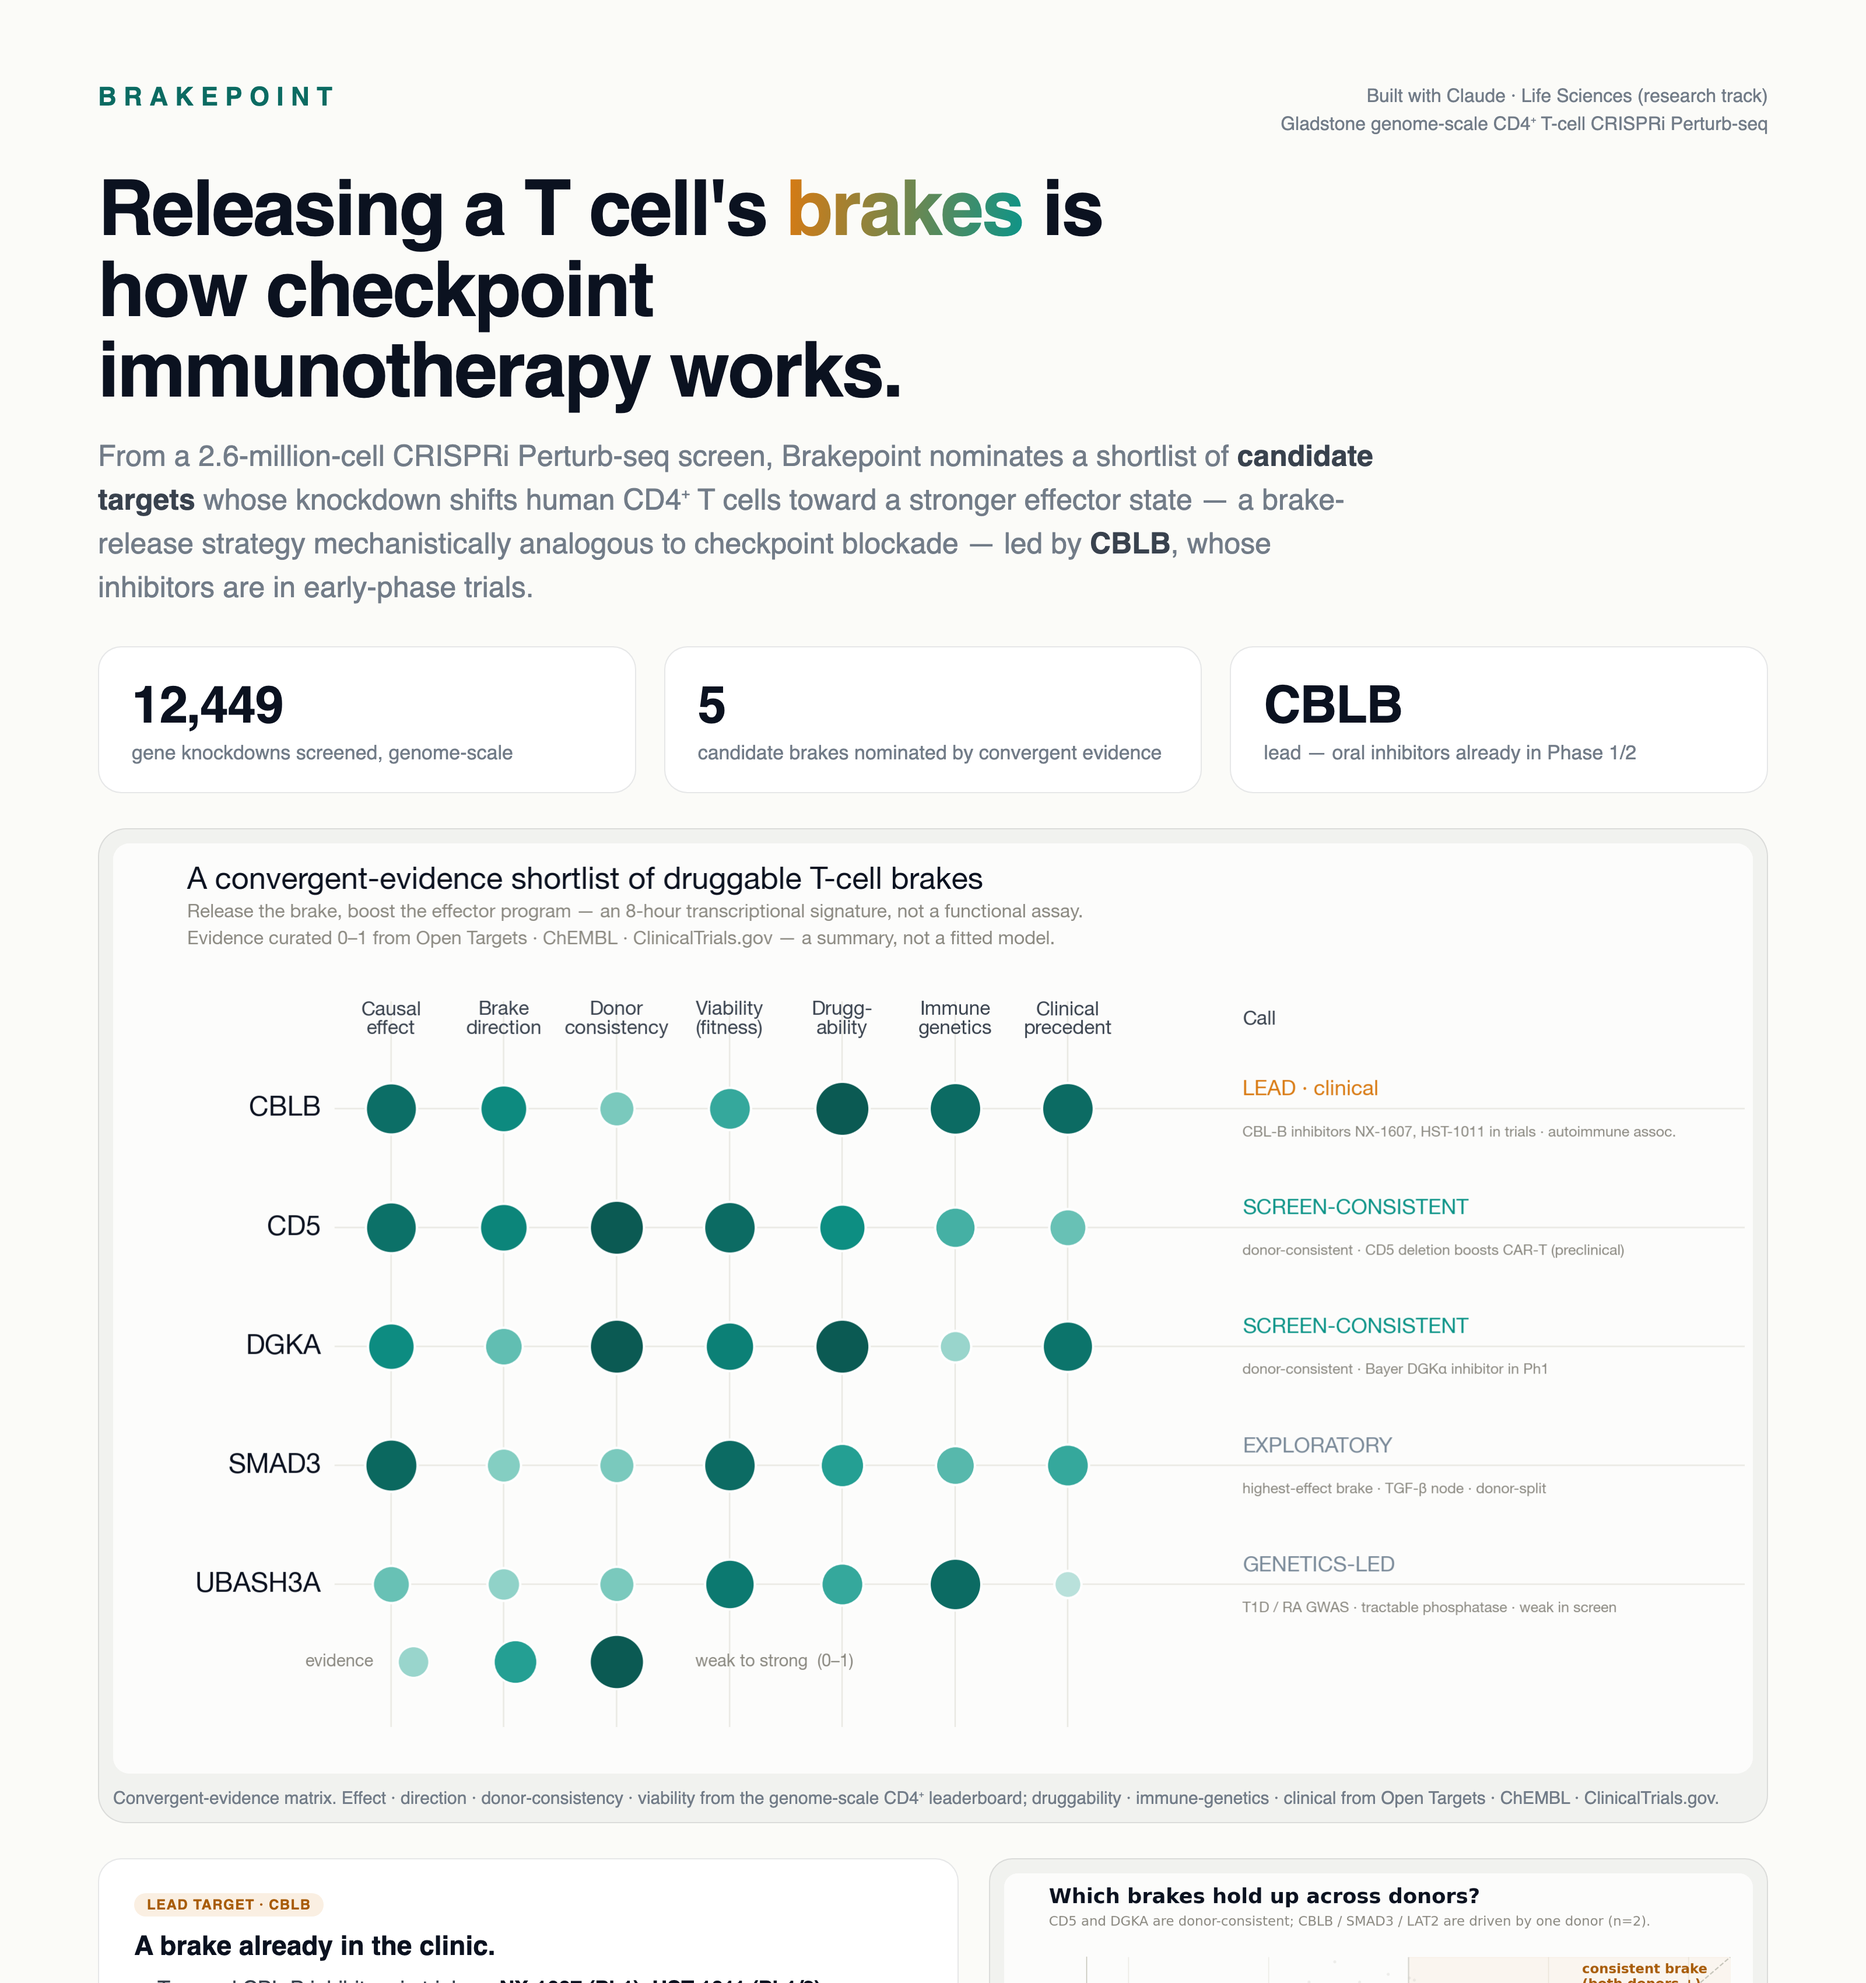
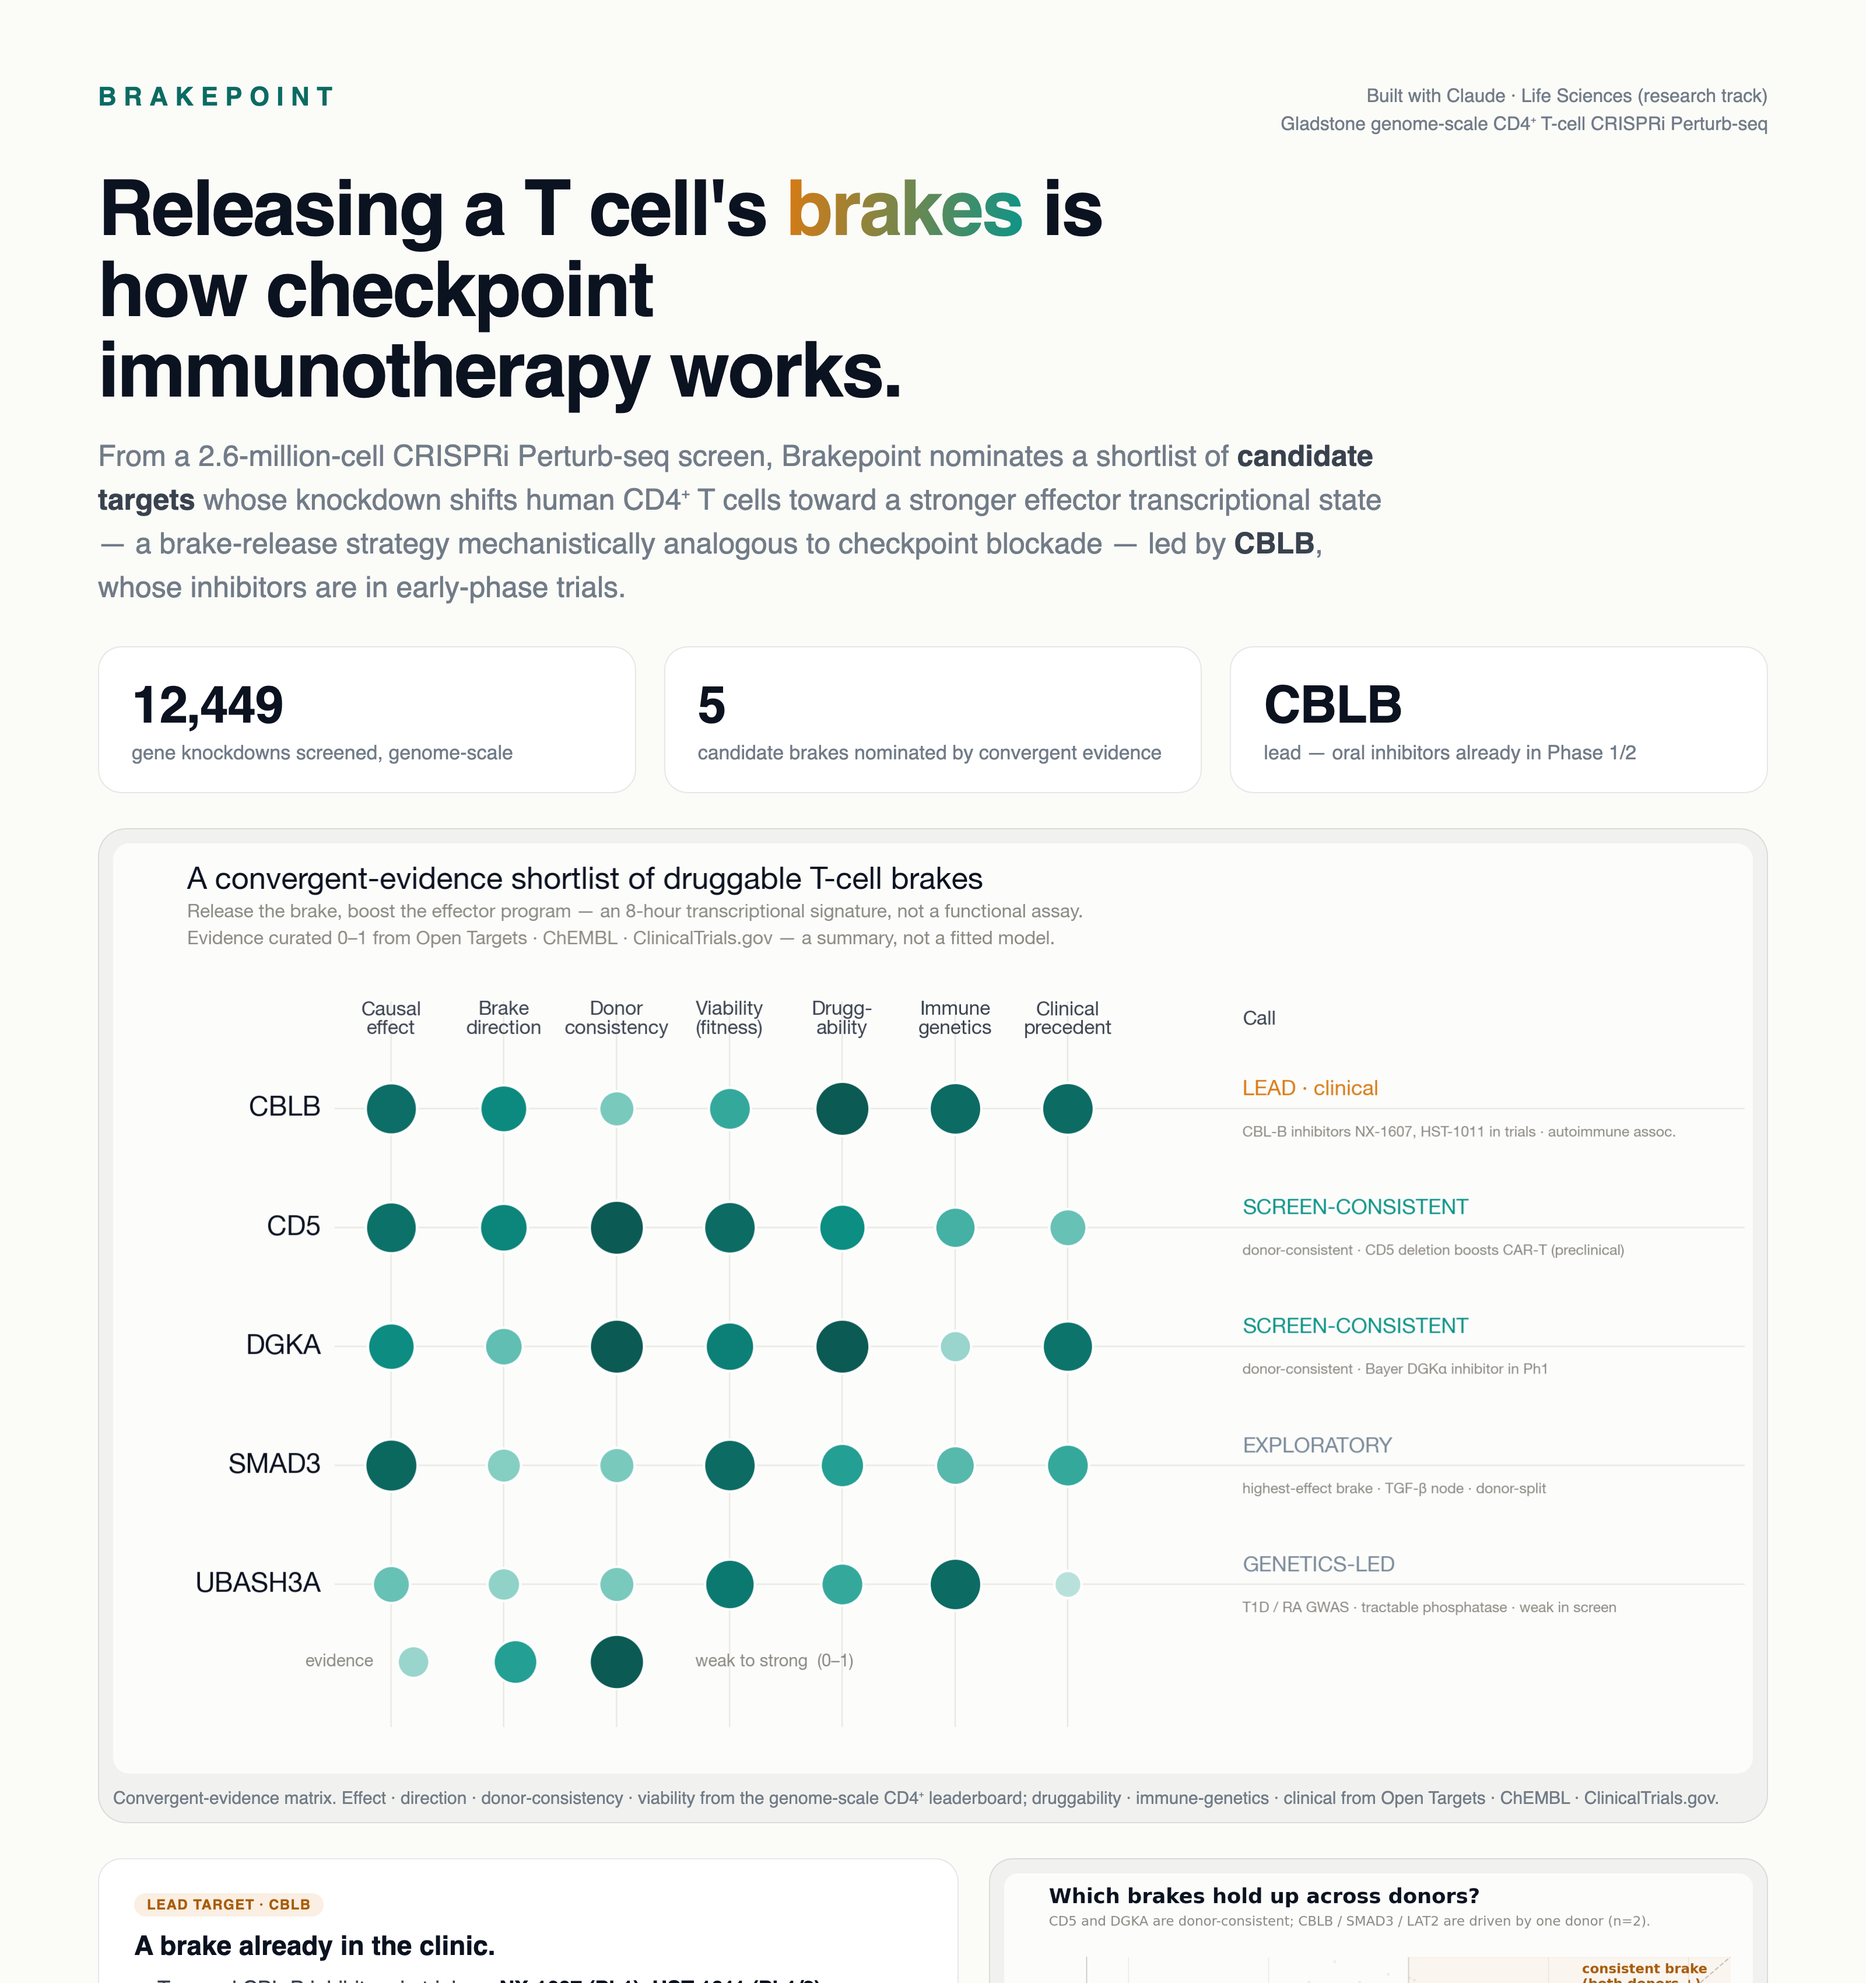
landing honesty pass 5: 'effector transcriptional state' explicit in hero leads; ground CBLB directional claim in preclinical Cbl-b loss + trial rationale (not inferred from autoimmune association); re-render one-pager

Changed region(s): [[0.0625, 0.2494, 0.75, 0.3118]]

diff --git a/deliverables/index.html b/deliverables/index.html
@@ -4,7 +4,7 @@
 <meta charset="utf-8"/>
 <meta name="viewport" content="width=device-width, initial-scale=1"/>
 <title>Brakepoint — candidate brakes on human T-cell function</title>
-<meta name="description" content="From a 2.6-million-cell CRISPRi Perturb-seq screen, Brakepoint nominates a shortlist of candidate targets whose knockdown shifts human CD4+ T cells toward a stronger effector state — a brake-release strategy mechanistically analogous to checkpoint blockade — led by CBLB, whose inhibitors are in early-phase trials. Built with Claude Science."/>
+<meta name="description" content="From a 2.6-million-cell CRISPRi Perturb-seq screen, Brakepoint nominates a shortlist of candidate targets whose knockdown shifts human CD4+ T cells toward a stronger effector transcriptional state — a brake-release strategy mechanistically analogous to checkpoint blockade — led by CBLB, whose inhibitors are in early-phase trials. Built with Claude Science."/>
 <link rel="preconnect" href="https://fonts.googleapis.com"/><link rel="preconnect" href="https://fonts.gstatic.com" crossorigin/>
 <link href="https://fonts.googleapis.com/css2?family=Plus+Jakarta+Sans:wght@400;500;600;700;800&family=Space+Grotesk:wght@500;600;700&display=swap" rel="stylesheet"/>
 <style>
@@ -85,7 +85,7 @@
 <section class="hero"><div class="wrap">
   <span class="eyebrow on-dark">Built with Claude · Life Sciences · Research track</span>
   <h1>Releasing a T cell's <span class="g">brakes</span> is how checkpoint immunotherapy works.</h1>
-  <p class="lead">From a 2.6-million-cell CRISPRi Perturb-seq screen, Brakepoint nominates a shortlist of <b style="color:#f4b062">candidate targets</b> whose knockdown shifts human CD4⁺ T cells toward a stronger effector state — a brake-release strategy mechanistically analogous to checkpoint blockade — led by <b style="color:#fff">CBLB</b>, whose inhibitors are in early-phase trials.</p>
+  <p class="lead">From a 2.6-million-cell CRISPRi Perturb-seq screen, Brakepoint nominates a shortlist of <b style="color:#f4b062">candidate targets</b> whose knockdown shifts human CD4⁺ T cells toward a stronger effector transcriptional state — a brake-release strategy mechanistically analogous to checkpoint blockade — led by <b style="color:#fff">CBLB</b>, whose inhibitors are in early-phase trials.</p>
   <div class="hero-actions">
     <a class="btn on-dark" href="#targets">See the targets <span class="ico"><svg viewBox="0 0 24 24" fill="none" stroke="currentColor" stroke-width="1.8"><path d="M5 12h14M13 6l6 6-6 6" stroke-linecap="round" stroke-linejoin="round"/></svg></span></a>
     <a class="btn" href="#demo" style="background:rgba(255,255,255,.07);color:#fff;border:1px solid rgba(255,255,255,.14);padding-right:22px">Watch the 2-min demo</a>
@@ -101,7 +101,7 @@
 <section class="pad" id="targets"><div class="wrap">
   <span class="eyebrow kicker reveal">The finding · a target shortlist</span>
   <h2 class="reveal" style="max-width:22ch">Five candidate brakes, ranked by convergent evidence.</h2>
-  <p class="lead reveal" style="margin-top:18px">A T-cell "brake" is a gene whose knockdown shifts the cell toward a stronger effector state; checkpoint-blockade therapy works by drugging such brakes to boost immunity. Our direction axis is an 8-hour transcriptional signature, so functional validation (cytokines, proliferation, killing) is the required next step. We score each candidate across seven evidence axes: causal effect, brake direction, donor consistency, viability, druggability, immune genetics, and clinical precedent.</p>
+  <p class="lead reveal" style="margin-top:18px">A T-cell "brake" is a gene whose knockdown shifts the cell toward a stronger effector transcriptional state; checkpoint-blockade therapy works by drugging such brakes to boost immunity. Our direction axis is an 8-hour transcriptional signature, so functional validation (cytokines, proliferation, killing) is the required next step. We score each candidate across seven evidence axes: causal effect, brake direction, donor consistency, viability, druggability, immune genetics, and clinical precedent.</p>
   <div class="frame reveal" style="margin-top:38px"><div class="core"><img src="figures/target_matrix.svg" alt="Convergent-evidence matrix scoring CBLB, CD5, DGKA, SMAD3, UBASH3A across seven evidence dimensions"/></div></div>
   <p class="cap reveal">Effect, direction, donor consistency and viability are computed from the genome-scale CD4⁺ leaderboard; druggability, immune-genetics and clinical precedent are curated from Open Targets, ChEMBL and ClinicalTrials.gov. Reproduce with <span class="mono">make figure</span>.</p>
 </div></section>
@@ -115,7 +115,7 @@
     <div class="lead-card" style="margin-top:22px"><div class="in">
       <span class="tag lead">LEAD TARGET · CBLB</span>
       <div class="evrow"><span class="d"></span><div><b style="color:var(--ink)">Druggable, clinically:</b> two oral CBL-B inhibitors in trials — NX-1607 (Ph1) and HST-1011 (Ph1/2).</div></div>
-      <div class="evrow"><span class="d"></span><div><b style="color:var(--ink)">Human genetics:</b> an autoimmune genetic association consistent with a T-cell brake role — so inhibiting CBLB may boost anti-tumor immunity.</div></div>
+      <div class="evrow"><span class="d"></span><div><b style="color:var(--ink)">Human genetics &amp; biology:</b> CBLB carries an autoimmune-risk association, and Cbl-b loss enhances T-cell activation in preclinical models — the rationale behind the clinical CBL-B inhibitor programs (NX-1607, HST-1011).</div></div>
       <div class="evrow"><span class="d"></span><div><b style="color:var(--ink)">Causal + control:</b> a top-decile effect (E-distance 6.4) in the positive/brake direction, and an internal positive control for the method.</div></div>
       <div class="evrow"><span class="d" style="background:var(--amber)"></span><div><b style="color:var(--ink)">Honest caveat:</b> donor-split at n=2 (one of two donors drives the effect) — see the donor plot below.</div></div>
     </div></div>

diff --git a/deliverables/_video/onepager.html b/deliverables/_video/onepager.html
@@ -40,7 +40,7 @@
     <div class="built">Built with Claude · Life Sciences (research track)<br/>Gladstone genome-scale CD4⁺ T-cell CRISPRi Perturb-seq</div>
   </div>
   <h1>Releasing a T cell's <span class="g">brakes</span> is how checkpoint immunotherapy works.</h1>
-  <p class="sub">From a 2.6-million-cell CRISPRi Perturb-seq screen, Brakepoint nominates a shortlist of <b>candidate targets</b> whose knockdown shifts human CD4⁺ T cells toward a stronger effector state — a brake-release strategy mechanistically analogous to checkpoint blockade — led by <b>CBLB</b>, whose inhibitors are in early-phase trials.</p>
+  <p class="sub">From a 2.6-million-cell CRISPRi Perturb-seq screen, Brakepoint nominates a shortlist of <b>candidate targets</b> whose knockdown shifts human CD4⁺ T cells toward a stronger effector transcriptional state — a brake-release strategy mechanistically analogous to checkpoint blockade — led by <b>CBLB</b>, whose inhibitors are in early-phase trials.</p>
   <div class="stats">
     <div class="stat"><div class="n">12,449</div><div class="l">gene knockdowns screened, genome-scale</div></div>
     <div class="stat"><div class="n">5</div><div class="l">candidate brakes nominated by convergent evidence</div></div>
@@ -54,7 +54,7 @@
       <span class="tag">LEAD TARGET · CBLB</span>
       <h3>A brake already in the clinic.</h3>
       <div class="ev"><span class="d"></span><div>Two oral CBL-B inhibitors in trials — <b>NX-1607 (Ph1), HST-1011 (Ph1/2)</b>.</div></div>
-      <div class="ev"><span class="d"></span><div>An <b>autoimmune genetic association</b> consistent with a T-cell brake role.</div></div>
+      <div class="ev"><span class="d"></span><div>An <b>autoimmune-risk association</b>; Cbl-b loss enhances T-cell activation in preclinical models — the CBL-B inhibitor trial rationale.</div></div>
       <div class="ev"><span class="d" style="background:var(--amber)"></span><div>Donor-split at n=2 (right) — a prioritized nomination for the full cohort, reported honestly.</div></div>
     </div>
     <div class="box fig"><img src="../figures/donor_consistency.png"/></div>
